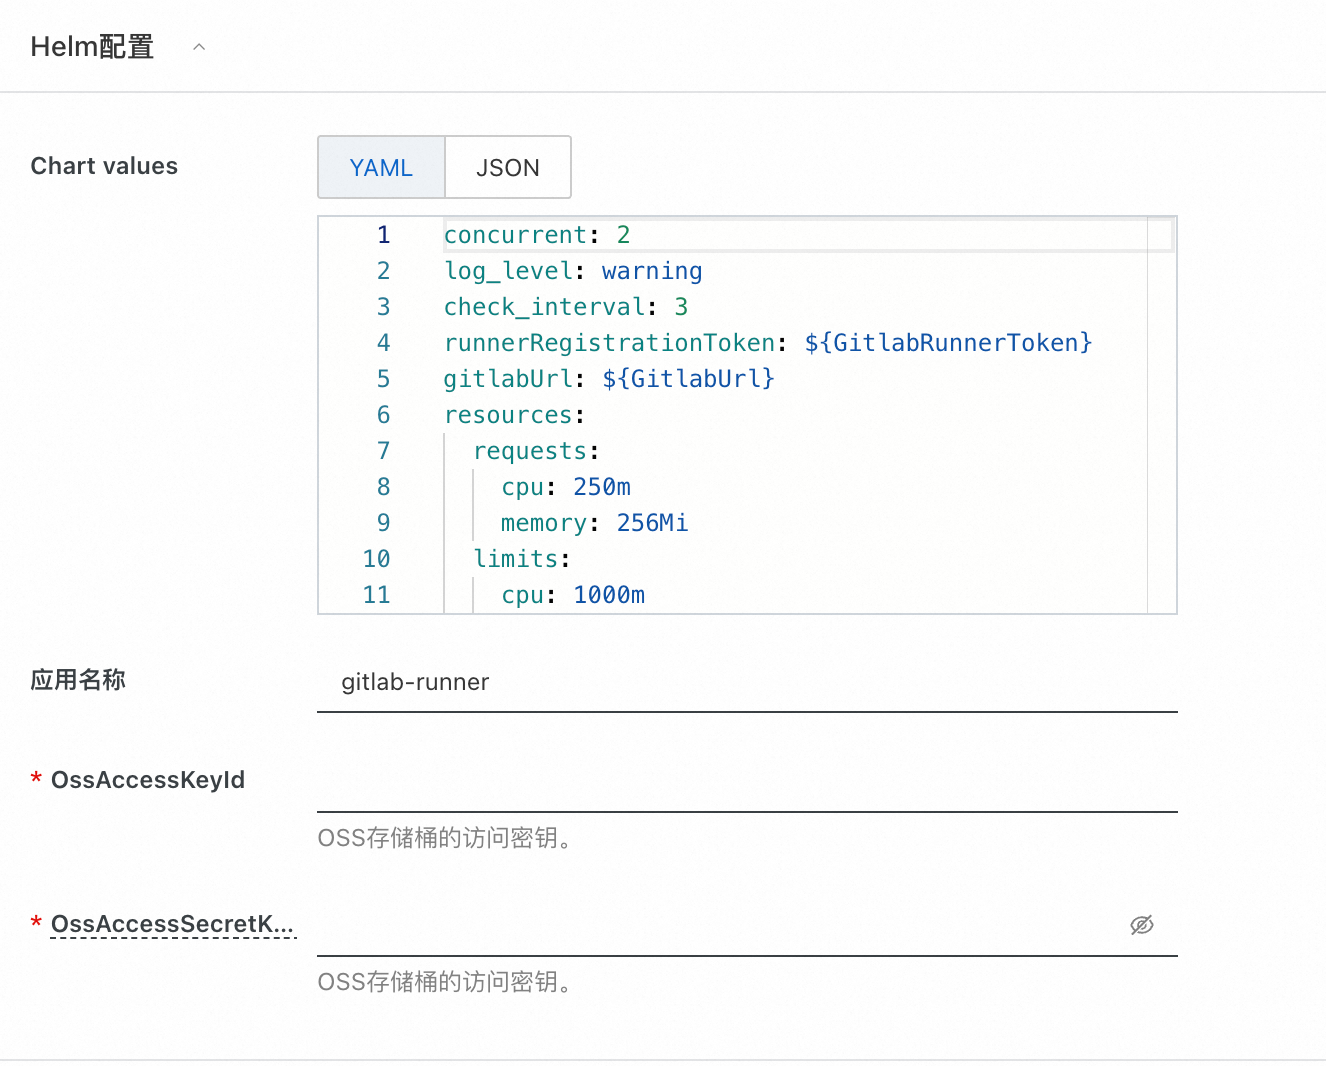
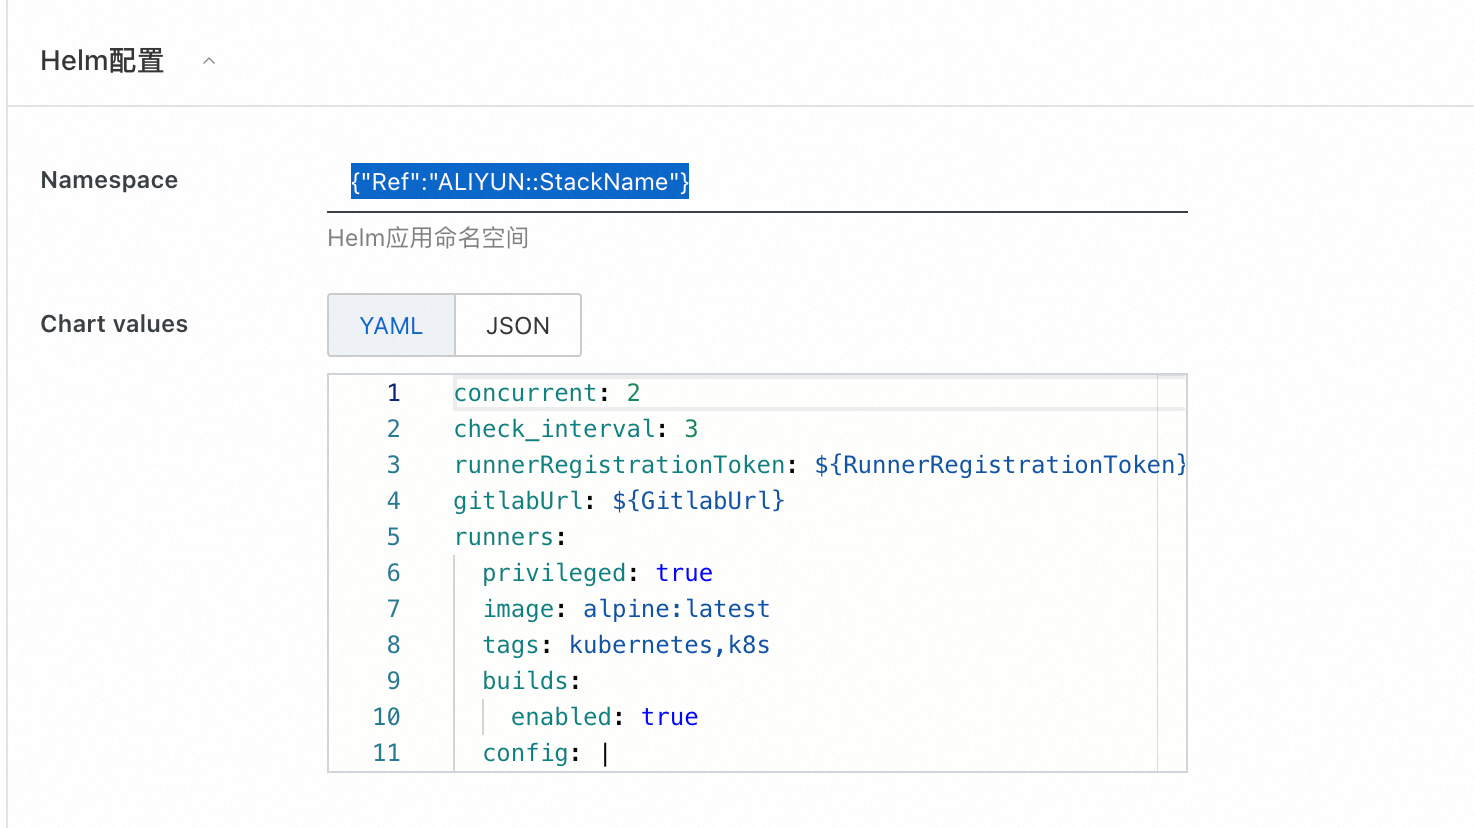
update

diff --git a/docs/index-en.md b/docs/index-en.md
@@ -76,8 +76,6 @@ When the parameter "Create new ACK cluster" is set to no, it means you already h
 | Create new ACK cluster   | Yes/No      | No                            | Selecting No indicates an existing ACK cluster, no need to create a new one |
 | Create new ACK cluster   | K8s Cluster ID | ccde6deb0f612402786e611a7e1230d | Select the ID of an existing cluster within the region |
 | Application Configuration | Domain         | jupyter.mycompany.com           | The domain to access                         |
-| Application Configuration | OSS Access Credentials | AccessKey                     | OSS access credentials, with read and write permissions needed  |
-| Application Configuration | OSS Secret Key  | secret key                       | OSS secret key                              |
 | Application Configuration | Helm Configuration  | {}                              | Detailed Helm configuration reference: https://gitlab.com/gitlab-org/charts/gitlab-runner/blob/main/values.yaml |
 
 #### New ACK Cluster
@@ -100,28 +98,52 @@ When the parameter "Create new ACK cluster" is set to no, it means you already h
 | Kubernetes Configuration  | Pod Subnet Instance ID   | vsw-xx                       | The Pod subnet instance ID for ACK. Required when using Terway. Choose a subnet with a mask no larger than 19. |
 | Kubernetes Configuration  | Service CIDR             | 172.16.0.0/16                | The Service network range for ACK. Choose from: 10.0.0.0/16-24, 172.16-31.0.0/16-24, 192.168.0.0/16-24, ensuring no overlap with existing VPC or Kubernetes clusters. |
 | Application Configuration  | Domain                  | jupyter.mycompany.com        | The domain to access                                                       |
-| Application Configuration  | OSS Access Credentials  | AccessKey                    | OSS access credentials, with read and write permissions needed             |
-| Application Configuration  | OSS Secret Key          | secret key                   | OSS secret key                                                             |
 | Application Configuration  | Helm Configuration      | {}                           | Detailed Helm configuration reference: https://gitlab.com/gitlab-org/charts/gitlab-runner/blob/main/values.yaml |
 
 ## Deployment Process
-1. Visit Compute Nest [deployment link](https://computenest.console.aliyun.com/service/instance/create/default?type=user&ServiceName=Gitlab Runner%E7%A4%BE%E5%8C%BA%E7%89%88), and fill in the deployment parameters as prompted
-2. Specify whether to create a new cluster or select an existing one ![](./img-en/param1.png)
-3. Fill in the Helm configuration ![](./img-en/param2.png). The first parameter is the value of the Helm package, with specific reference to the official documentation at https://gitlab.com/gitlab-org/charts/gitlab-runner/blob/main/values.yaml
-4. In the default configuration values, "concurrent" refers to the number of concurrent jobs, "runnerRegistrationToken" is the Runner registration token from Gitlab, and "gitlabUrl" is the URL of Gitlab. If you have not deployed your own Gitlab, you can use https://gitlab.com.
-4. Fill in the application name, such as Gitlab-runner. This name will also be used as the OSS Bucket name, namespace name in the cluster, and Helm application registration name.
-5. Click "Create Now" and wait for the service instance deployment to complete ![](./img-en/si-1.png)
-6. After the service instance is deployed, click on the instance ID to go to the details page. As shown, the deployment is successful ![](./img-en/si-2.png)
-7. You can now create pipelines and execute them in the original Gitlab
-
+1. Visit the Compute Nest [deployment link](https://computenest.console.aliyun.com/service/instance/create/default?type=user&ServiceName=Gitlab%20Runner%E7%A4%BE%E5%8C%BA%E7%89%88) and fill in the deployment parameters as prompted.
+2. Specify whether to create a new cluster or select an existing one![](./img/param1.png)
+3. Fill in the Helm configuration![](./img/param2.png). The first parameter is the namespace where the Helm application will run. The default value {"Ref":"ALIYUN::StackName"} means using the Compute Nest instance name as the namespace.
+4. The second parameter is the Chart values, which are the parameters needed to run the Helm application. **Note that you must replace the GitlabUrl and GitlabRunnerToken here.**
+5. GitlabUrl is the external address of your Gitlab, while GitlabRunnerToken is the token registered with Gitlab for the runner, used for authentication between Gitlab and Runner. Refer to the following two images to obtain the token: ![img.png](img/param3.png) for creating a new Runner and ![img.png](img/param4.png)
+6. An illustration of successfully creating a Runner registered with Gitlab is shown here. Note that once the current page is closed, the token cannot be viewed again: ![img.png](img/param5.png)
+7. In the default configuration values, 'concurrent' represents the number of concurrent jobs. If you have not deployed your own Gitlab, you can use the official address by entering: https://gitlab.com.
+8. **Note: Both the manager node of Gitlab Runner and the scheduled job nodes operate under {{.Release.Namespace}}. Please do not modify this configuration, or it will cause permission issues.**
+9. For adjustments to other parameters, refer to the [official documentation](https://gitlab.com/gitlab-org/charts/gitlab-runner/blob/main/values.yaml).
+10. Click to create immediately and wait for the service instance to be deployed![](./img/si-1.png)
+11. Once the service instance deployment is complete, click on the instance ID to enter the detail page. As shown, the deployment has been successfully completed![](./img/si-2.png)
+12. You can now proceed to create and execute pipelines in the original Gitlab.
 ## Advanced Configuration
 
-### Dynamically Modify Helm Values
-1. Click to enter the service instance details page and click "Modify Configuration" in the upper right corner ![img.png](img-en/update-0.png)
-2. Select to modify the Helm configuration. ![img.png](img-en/update-1.png)
-3. Modify the deployment parameters and proceed with the reconfiguration. ![img.png](img-en/update-3.png)
-4. Wait for the instance to be reconfigured to achieve dynamic updates of Helm.
+### Dynamically Modify Helm Values (The Following Advanced Configurations Rely on This Functionality)
+1. Click to enter the service instance details page, then click "Modify Configuration" in the top right corner. ![img.png](img/update-0.png)
+2. Choose to modify the Helm configuration. ![img.png](img/update-1.png)
+3. Modify the deployment parameters and reconfigure. ![img.png](img/update-3.png)
+4. Wait for the instance to be reconfigured to achieve dynamic Helm updates.
 
+### Configure OSS Cache for Pipeline Acceleration
+This cache is for pipeline job caching, such as caching Python dependencies.
+
+#### Configuration Section
+1. First, you need to create an OSS-related RAM user and grant this user OSS-related permissions, and save its Access Key (AK) and Secret Key (SK). You can refer to this [document](https://help.aliyun.com/zh/ram/use-cases/use-ram-to-manage-oss-permissions?spm=a2c4g.11186623.help-menu-search-28625.d_7) for related RAM AK and SK creation.
+2. Click to enter the service instance details page, then click "Modify Configuration" in the top right corner. ![img.png](img/update-0.png)
+3. Choose to modify the Helm configuration. ![img.png](img/update-1.png)
+4. Find the line `[[runners]]`, and add the following configuration in its sub-columns:
+```toml
+[runners.cache]
+  type = "s3"
+  shared = true
+  [runners.cache.s3]
+    #example："oss-ap-southeast-1.aliyuncs.com"
+    ServerAddress = "${ServerAddress}"
+    AccessKey = "LTAxxxxx"
+    SecretKey = "0KPDxxxx"
+    #example:"gitlab-runner"
+    BucketName = "${BucketName}"
+    #example:"ap-southeast-1"
+    BucketLocation = "${Region}"
+    Insecure = false
+```
 ### Implement Dynamic Scaling of Runner Manager Nodes via HPA Configuration
 A default HPA rule is prepared in the service creation interface
 ```yaml
@@ -249,9 +271,6 @@ build-job:       # This job runs in the build stage, which runs first.
       --context "$CI_PROJECT_DIR"
       --dockerfile "$CI_PROJECT_DIR/Dockerfile"
       --destination ${ACR_REGISTRY}:latest
-      # --cache=true
-      # --cache-repo "${CACHE_REPO}"
-      # --destination "${CI_REGISTRY_IMAGE}:${CI_COMMIT_TAG}"
 ```
 
 ### Complete Values Reference
